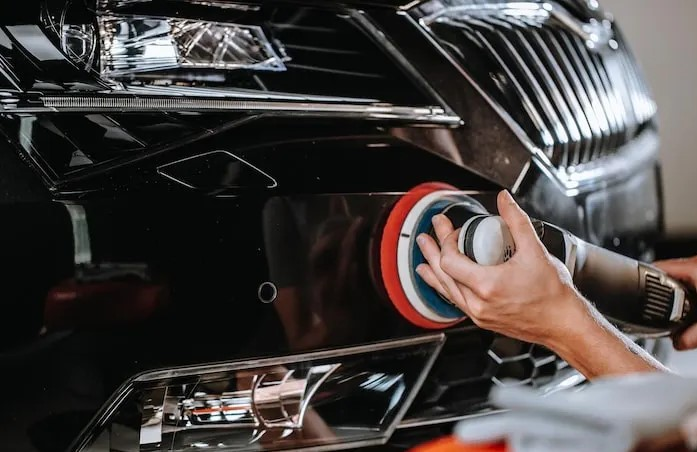
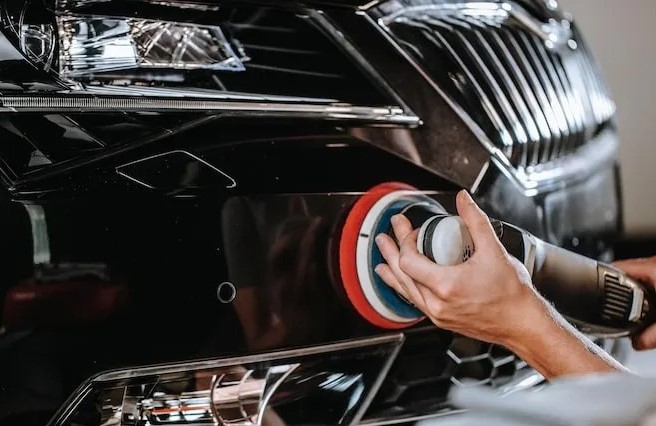
Cuarta version

diff --git a/index.html b/index.html
@@ -234,7 +234,7 @@
                     <div id="cuarta_seccion_imagenes">
                         
                             <div id="imagen_whatsapp">
-                                <a href="https://l.instagram.com/?u=https%3A%2F%2Fapi.whatsapp.com%2Fsend%3Fphone%3D598092382294%26text%3D%25C2%25A1Buenos%2Bd%25C3%25ADas%2BEst%25C3%25A9tica%2BAutomotriz%2521%2BSoy%26utm_source%3Dig%26utm_medium%3Dsocial%26utm_content%3Dlink_in_bio%26fbclid%3DPAZXh0bgNhZW0CMTEAcGRvZgJzcnRjBmFwcF9pZA85MzY2MTk3NDMzOTI0NTkAAaek-qaXuqIkVSo-prOTEPHS6IbnvKldqdMmqr1pQ1AMhHcGEaIYLtZQbZ-eIw_aem_f9o0MOMTIkU-39c-lyFGyg&e=AUAzBAaBhTm1RLRLfFnsd3s6i5TQQ-XIwAk29xQl2kQVDy9VAGgJGEbS9cK8GUpa2ZX1Pr1cM1fpSNqeUMtc7Hh5KoKDmUIlYEITodLWmRMhICCdSLHUC6gNwIaw1aq6xqLp-PI"><img src="./assets/Redes/whatsapp.png" alt="Logo whatsapp"></a>
+                                <a href="https://wa.me/59892382294"><img src="./assets/Redes/whatsapp.png" alt="Logo whatsapp"></a>
                             </div>
                             <p>Whatsapp</p>
                         
